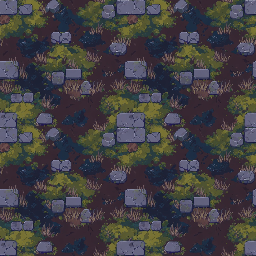
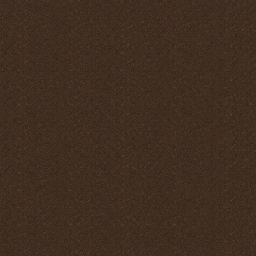
0.5.1: забег снова идёт, земля отдельно от камней, Night and Might.
Исправлен зависший таймер (разные часы в цикле). Плитка грунта без объектов. Камни и деревья стоят по полю.

diff --git a/app/src/main/java/com/nightandorder/game/GameView.kt b/app/src/main/java/com/nightandorder/game/GameView.kt
@@ -10,7 +10,6 @@ import android.graphics.Paint
 import android.graphics.RectF
 import android.graphics.Shader
 import android.graphics.Typeface
-import android.os.SystemClock
 import android.view.Choreographer
 import android.view.KeyEvent
 import android.view.MotionEvent
@@ -131,7 +130,7 @@ class GameView(
     private fun startLoop() {
         if (running) return
         running = true
-        lastNs = SystemClock.elapsedRealtimeNanos()
+        lastNs = 0L
         acc = 0f
         choreographer.postFrameCallback(this)
     }
@@ -146,6 +145,7 @@ class GameView(
         if (lastNs == 0L) lastNs = frameTimeNanos
         var dt = (frameTimeNanos - lastNs) / 1_000_000_000f
         lastNs = frameTimeNanos
+        if (dt < 0f) dt = 0f
         if (dt > 0.25f) dt = 0.25f
         acc += dt
         var steps = 0
@@ -383,13 +383,14 @@ class GameView(
         text.textAlign = Paint.Align.CENTER
         text.color = 0xFFE8C98A.toInt()
         text.textSize = w * 0.11f
-        c.drawText("НОЧЬ", w / 2f, h * 0.28f, text)
-        text.textSize = w * 0.055f
+        text.textSize = w * 0.10f
+        c.drawText("NIGHT", w / 2f, h * 0.28f, text)
+        text.textSize = w * 0.048f
         text.color = 0xFF8B1E2D.toInt()
-        c.drawText("И", w / 2f, h * 0.35f, text)
-        text.textSize = w * 0.11f
+        c.drawText("AND", w / 2f, h * 0.35f, text)
+        text.textSize = w * 0.10f
         text.color = 0xFFE8C98A.toInt()
-        c.drawText("ОРДЕН", w / 2f, h * 0.46f, text)
+        c.drawText("MIGHT", w / 2f, h * 0.46f, text)
         text.textSize = w * 0.038f
         text.color = 0x88E8D5A3.toInt()
         c.drawText("вампиры и Святой орден", w / 2f, h * 0.52f, text)

diff --git a/app/src/main/java/com/nightandorder/game/Sfx.kt b/app/src/main/java/com/nightandorder/game/Sfx.kt
@@ -31,6 +31,10 @@ class Sfx(context: Context, private val prefs: Prefs) {
 
     fun play(event: Cue) {
         val tg = tones ?: return
+        runCatching { playTone(tg, event) }
+    }
+
+    private fun playTone(tg: ToneGenerator, event: Cue) {
         when (event) {
             Cue.HIT -> tg.startTone(ToneGenerator.TONE_PROP_BEEP, 28)
             Cue.HURT -> tg.startTone(ToneGenerator.TONE_CDMA_SOFT_ERROR_LITE, 90)

diff --git a/app/src/main/java/com/nightandorder/game/Field.kt b/app/src/main/java/com/nightandorder/game/Field.kt
@@ -61,7 +61,7 @@ object Field {
     private fun at(cx: Int, cy: Int): Prop? {
         if (cx == 0 && cy == 0) return null
         val h = hash(cx, cy)
-        if (h % 5 != 0) return null
+        if (h % 3 != 0) return null
         val kind = when ((h ushr 8) % 4) {
             0 -> PropKind.ROCK
             1 -> PropKind.STONE

diff --git a/README.md b/README.md
@@ -1,4 +1,4 @@
-# Ночь и Орден
+# Night and Might
 
 Игра для Android в духе Vampire Survivors. Две стороны: вампиры и Святой орден.
 
